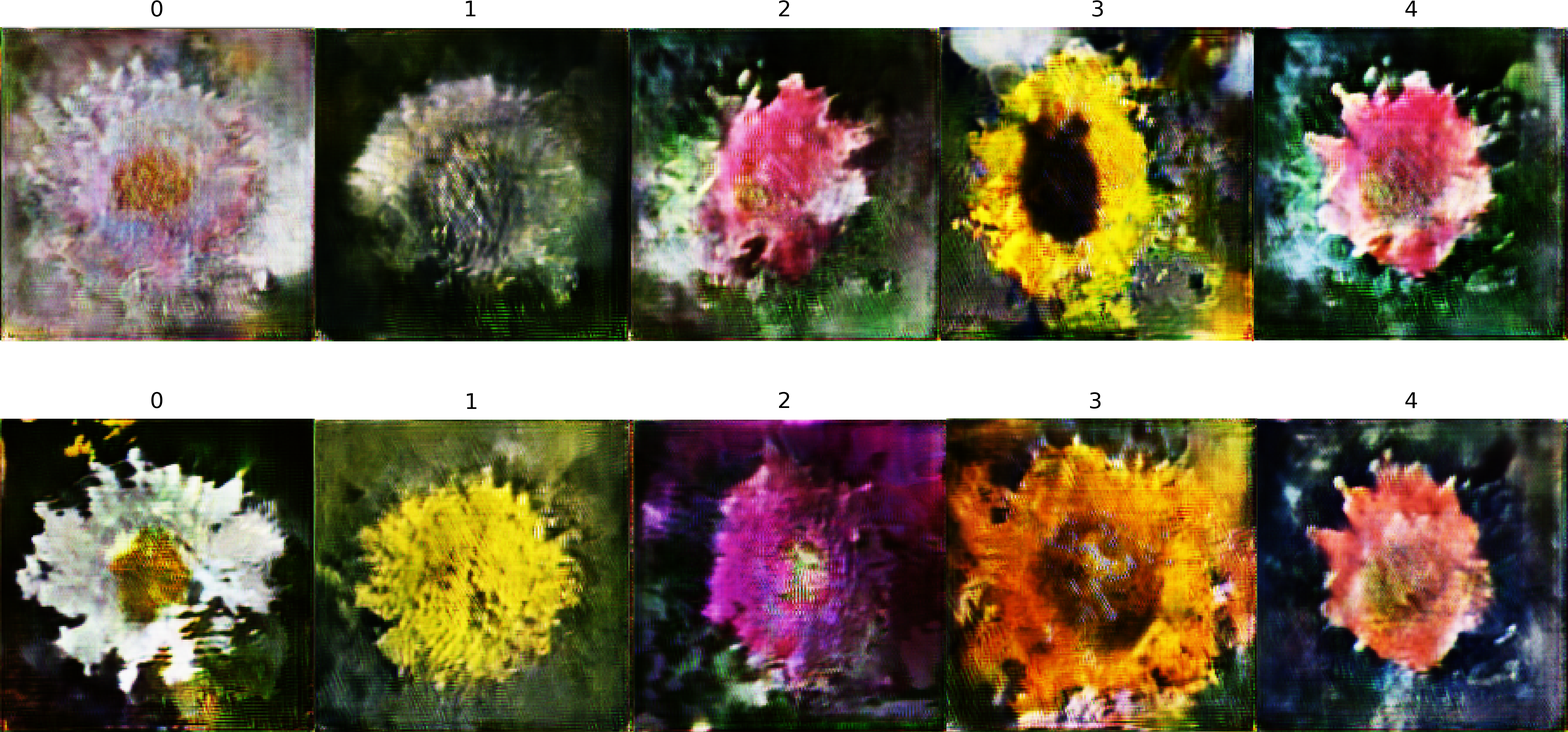
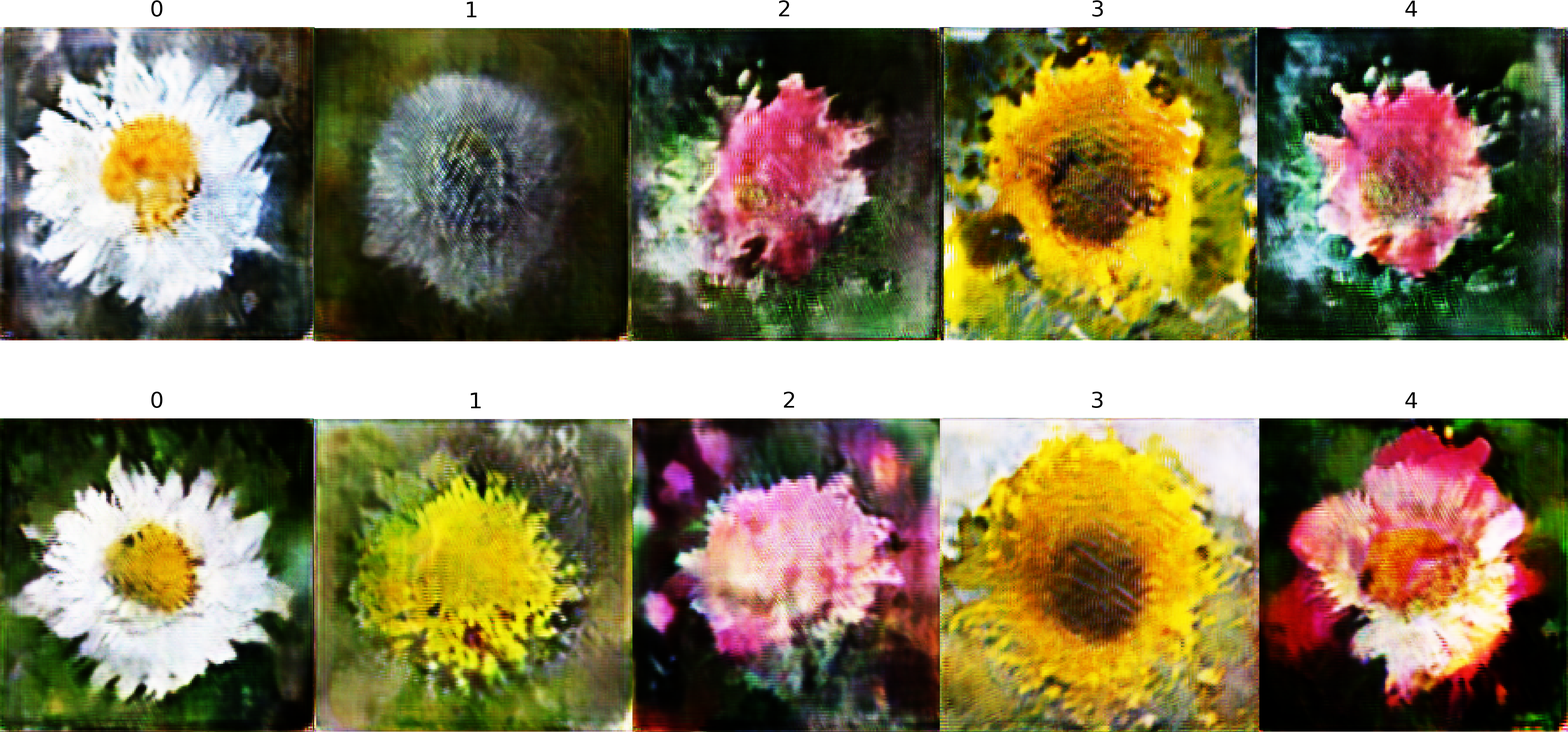
Flowers Generator — всё!
ну, тут как бы улучшать нечего

diff --git a/CCGAN.py b/CCGAN.py
@@ -61,23 +61,23 @@ def delete_images():
         os.remove(f"{flowers_path}/{i}")
 
 
-class CCGAN():
+class CCGAN(): 
     def __init__(self, **kwargs):
         super().__init__(**kwargs)
-        self.NUM_CLASSES = 5  # Не менять!
+        self.NUM_CLASSES = 5  # Количество папок в датасете
 
         # Входные форматы
         self.IMG_SHAPE = (180, 180, 3)
-        self.LATENT_DIM = 16
+        self.LATENT_DIM = 8
 
         # Константы
         self.FILTERS_DIS = 16  # Нижняя граница
 
         self.DIS_LAYERS = 6
-        self.GEN_LAYERS = 5
+        self.GEN_LAYERS = 4
 
-        self.optimizer_gen = Adam(2e-4)
-        self.optimizer_dis = Adam(2e-5)
+        self.optimizer_gen = Adam(4e-4)
+        self.optimizer_dis = Adam(4e-5)
 
         """
         Генератор и Дискриминатор
@@ -130,7 +130,7 @@ class CCGAN():
         x = self.latent_space_inp
         for _ in range(self.GEN_LAYERS):
             x = concatenate([x, self.label_inp])
-            x = Dense(x.shape[-1] - self.NUM_CLASSES, activation="tanh")(x)
+            x = Dense(x.shape[-1], activation="tanh")(x)
 
         # TODO: Никаких нахуй свёрток и развёрток!
         x = concatenate([x, self.label_inp])
@@ -158,7 +158,7 @@ class CCGAN():
                 yield i
 
     def sample_images(self, epoch):
-        row, column = 2, self.NUM_CLASSES
+        row, column = 3, self.NUM_CLASSES
         noise = np.random.normal(0, 1, (row * column, self.LATENT_DIM))
         label = np.array([
             np.arange(0, self.NUM_CLASSES) for _ in range(row)
@@ -171,14 +171,14 @@ class CCGAN():
         gen_imgs /= np.max(gen_imgs)
 
         # Делаем картинку
-        fig, axs = plt.subplots(row, column, figsize=(12, 6))
+        fig, axs = plt.subplots(row, column, figsize=(12, 9))
         fig.subplots_adjust(left=0, right=1, top=1, bottom=0, wspace=0.0, hspace=0.0)
 
         count = 0
         for i in range(row):
             for j in range(column):
                 axs[i, j].imshow(gen_imgs[count, :, :, :])
-                axs[i, j].set_title(label[count][0])
+                axs[i, j].set_title("")#label[count][0])
                 axs[i, j].axis("off")
                 count += 1
 
@@ -254,4 +254,5 @@ print("Sum:          ", f"{ccgan.generator.count_params() + ccgan.discriminator.
 #     print("Нет изображений")
 delete_images()
 
-ccgan.train(batch_size=16, dataset="flowers_dataset")
+# batch_size ТОЛЬКО 1 !!!
+ccgan.train(batch_size=1, dataset="flowers_dataset")

diff --git a/ccgan_mnist.py b/ccgan_mnist.py
@@ -18,7 +18,7 @@ class CGAN():
         # Входные форматы
         self.IMG_SHAPE = (28, 28, 1)
         self.NUM_CLASSES = 10
-        self.LATENT_DIM = 1
+        self.LATENT_DIM = 8
 
         """
         Генератор и Дискриминатор
@@ -45,8 +45,8 @@ class CGAN():
         self.cgan_model = Model([self.latent_space_inp, self.label_inp], self.dis_gen_z, name="CGAN")
         self.cgan = self.cgan_model([self.latent_space_inp, self.label_inp])
 
-        self.optimizer_gen = Adam(5e-4)  # У Генератора больше
-        self.optimizer_dis = Adam(5e-6)  # У Дискриминатора меньше (чтоб не душил Генератор)
+        self.optimizer_gen = Adam(1e-4)  # У Генератора больше
+        self.optimizer_dis = Adam(1e-5)  # У Дискриминатора меньше (чтоб не душил Генератор)
 
     def build_generator(self) -> Model:
         # Мучаемся со входом
